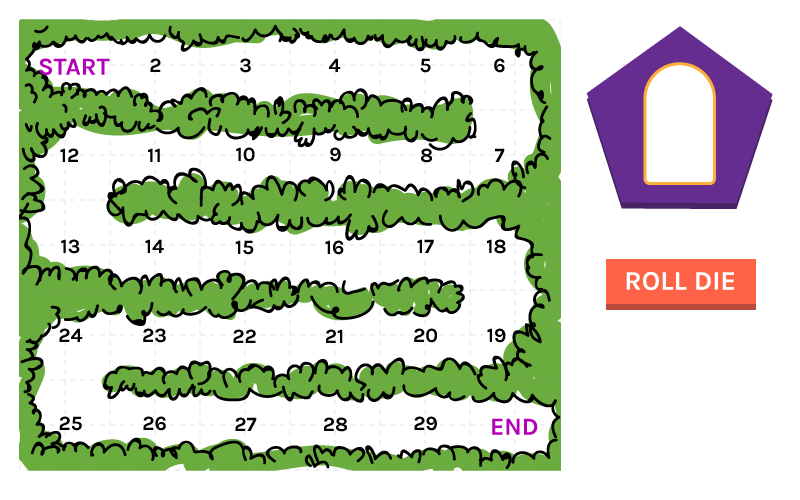
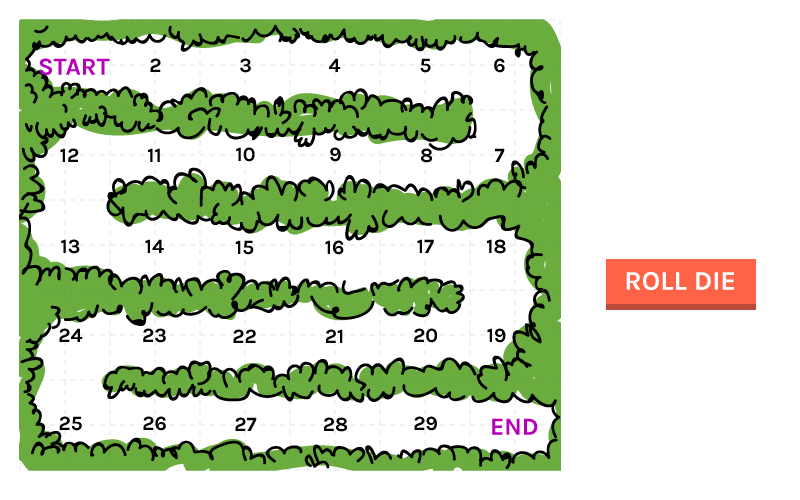
fikset switch trap og messagefunction

Changed region(s): [[0.7188, 0.06, 0.9688, 0.42]]

diff --git a/script/boardgame.js b/script/boardgame.js
@@ -21,8 +21,8 @@ const characterImg = [
 ];
 
 //audio
-let victoryAudio = new Audio("./audio/victory.WAV");
-let introAudio = new Audio("./audio/introtoot.WAV");
+// let victoryAudio = new Audio("./audio/victory.WAV");
+// let introAudio = new Audio("./audio/introtoot.WAV");
 
 //ikoner
 const player1Icon = document.querySelector(".player1--img");
@@ -107,7 +107,6 @@ class Player {
                                 messageObject.trapFunction = function() {
                                     allTraps[y].trapFunction(thisObject);
                                 }
-                                updateBanner();
                                 canvasMessage(allTraps[y].infoText);
                             },300*i);
                         }
@@ -170,6 +169,7 @@ class Trap {
                     calculatePosition(playerArray[z],playerArray[z].boardPlaceNumber);
                 }
             }
+            token.animateSliding(token.boardPlaceNumber,token.boardPlaceNumber,false);
         }
         if (!token.activeTurn) {
             console.log(token.name + " har ikke activeTurn");
@@ -254,15 +254,12 @@ let messageObject = {
     trapFunction: function() {
         allTraps[0].trapFunction(player1);
     },
-    xPos:350,
-    yPos:250,
-    width:100,
-    height:30
+    xPos:90,
+    yPos:125
 }
 
 function rollDice(token) {
     dice = Math.ceil(Math.random()*6);
-    //dice = 2;
     diceObject.pips = dice;
     oldBoardPlaceNumber = token.boardPlaceNumber;
     //endre token sitt bPN til det nye, viktig så animatesliding metode blir riktig
@@ -305,13 +302,13 @@ function updateBoard() {
 }
 
 function updateBanner() {
-    ctx.clearRect(580,0,320,200);
+    ctx.clearRect(580,0,320,250);
     ctx.drawImage(activePlayer.imgNr,600,100,150,150);
 }
 
 function updatePlayerAndDice() {
     //draw playerinfo
-    ctx.clearRect(580,580,320,canvas.height);
+    ctx.clearRect(580,250,320,canvas.height);
     if (diceObject.pips != 0) {
         ctx.drawImage((pips[diceObject.pips-1]),600,320,150,150);
     }
@@ -347,6 +344,7 @@ function mousePosition(event) {
     //regn ut posisjon av museklikk på canvas elementet
     let canvasX = x - canvasInfo.left;
     let canvasY = y - canvasInfo.top;
+    console.log("x: " + canvasX + ", og y: " + canvasY);
     if (diceObject.activeEventListener) {
         if (canvasX > diceObject.xPos && canvasY > diceObject.yPos) {
             if (canvasY < (diceObject.yPos + diceObject.height)) {
@@ -355,10 +353,9 @@ function mousePosition(event) {
         }
     }
     if (messageObject.activeEventListener) {
-        if (canvasX > messageObject.xPos && canvasY > messageObject.yPos) {
-            if (canvasX < (messageObject.xPos + messageObject.width) && canvasY < (messageObject.yPos + messageObject.height)) {
+        if (canvasX > 250 && canvasY > 245) {
+            if (canvasX < 350 && canvasY < 280) {
                 updateBoard();
-                updateBanner();
                 updatePlayerAndDice();
                 //message skal fjernes, så gjør om til false
                 //dice object skal kunne brukes igjen, så sett til true
@@ -371,8 +368,8 @@ function mousePosition(event) {
         }
     }
     if (winActiveEventListener) {
-        if (canvasX > messageObject.xPos && canvasY > messageObject.yPos) {
-            if (canvasX < (messageObject.xPos + messageObject.width) && canvasY < (messageObject.yPos + messageObject.height)) {
+        if (canvasX > 250 && canvasY > 245) {
+            if (canvasX < 350 && canvasY < 280) {
                 window.location = "winnerpage.html";
             }
         }
@@ -382,7 +379,7 @@ function mousePosition(event) {
 
 function canvasMessage(info) {
     messageObject.activeEventListener = true;
-    ctx.drawImage(messageBG,190,125);
+    ctx.drawImage(messageBG,messageObject.xPos,messageObject.yPos);
     let sentences = info.split("\n");
     let i;
     for (i = 0;i<sentences.length;i++) {
@@ -391,7 +388,7 @@ function canvasMessage(info) {
         ctx.fillStyle = "black";
         ctx.textAlign = "center";
         ctx.textBaseline = "hanging";
-        ctx.fillText(sentences[i],400,(150+(30*i)));
+        ctx.fillText(sentences[i],300,(150+(30*i)));
         ctx.closePath();
     }
 }
@@ -400,15 +397,15 @@ function winGame(token) {
     diceObject.activeEventListener = false;
     winActiveEventListener = true;
     localStorage.setItem("winnerName", token.name);
-    ctx.drawImage(messageBG,190,125);
+    ctx.drawImage(messageBG,messageObject.xPos,messageObject.yPos);
     ctx.beginPath();
     ctx.font = "18px Karla";
     ctx.fillStyle = "black";
     ctx.textAlign = "center";
     ctx.textBaseline = "hanging";
-    ctx.fillText((token.name + " won!"),400,150);
-    ctx.fillText("You've bested your opponent in a game of luck",400,180);
-    ctx.fillText("Go on and reap your reward!",400,210);
+    ctx.fillText((token.name + " won!"),300,150);
+    ctx.fillText("You've bested your opponent in a game of luck",300,180);
+    ctx.fillText("Go on and reap your reward!",300,210);
     ctx.closePath();
 }
 

diff --git a/index.html b/index.html
@@ -16,7 +16,7 @@
         <h1>Untitled Got Game</h1>
         <hr>
     </div>
-    <div class="page__warning page__warning--screen"><img class="col-2" src="media/warning.png"/><p class="col-10">The viewing screen must be at least 800 pixels in width for the best game experience. Either turn up your browser's screen resolution or change to a device with a bigger screen.</p></div>
+    <div class="page__warning page__warning--screen"><img class="col-2" src="media/warning.png"/><p class="col-10 clearfix">The viewing screen must be at least 800 pixels in width for the best game experience. Either turn up your browser's screen resolution or change to a device with a bigger screen.</p></div>
     <div class="page__warning page__warning--character"><img class="col-2" src="media/warning.png"/><p class="col-10">Characters have not been chosen, please go back to character select and choose your characters.</p></div>
     <div class="icons">
         <img class="player1--img" src="media/player1.png">

diff --git a/style/main.scss b/style/main.scss
@@ -103,6 +103,7 @@ hr{
         img, p {
             display:inline-block;
             vertical-align:top;
+            float:left;
         }
         img {
             height:50px;

diff --git a/style/main.css b/style/main.css
@@ -106,6 +106,7 @@ hr {
 .page__warning img, .page__warning p {
   display: inline-block;
   vertical-align: top;
+  float: left;
 }
 .page__warning img {
   height: 50px;
